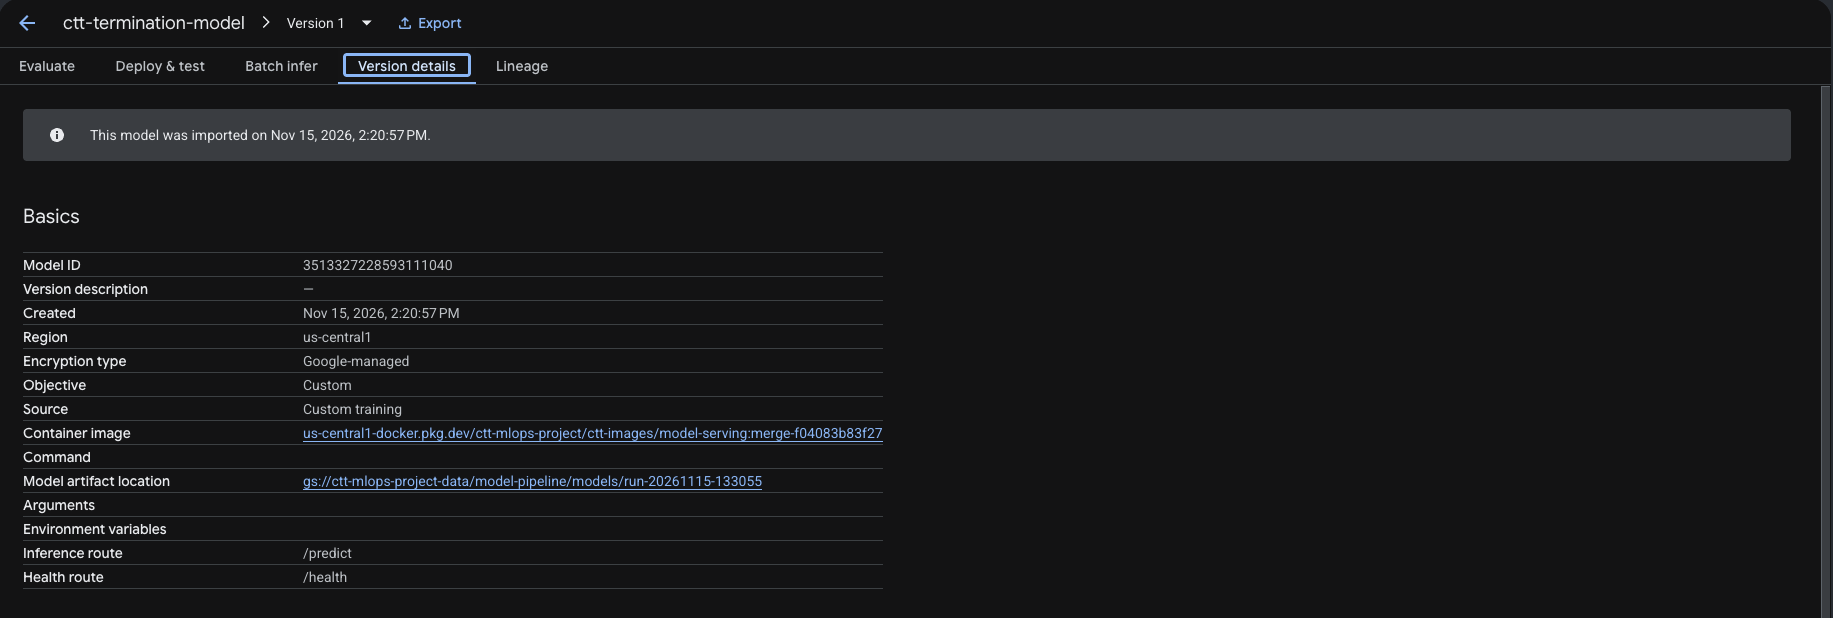
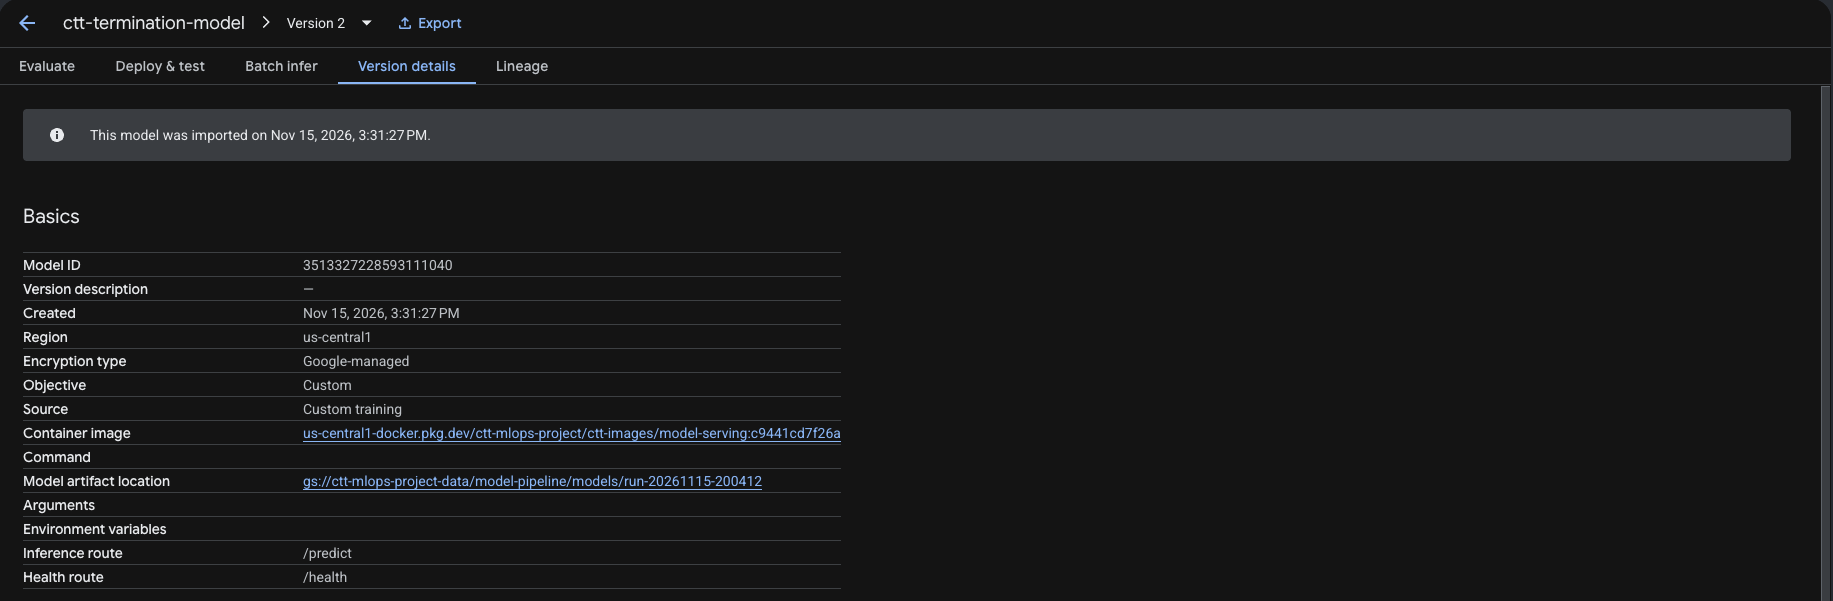
Model pipeline README: CI run on Vertex AI finished (10/10 steps), version 2 promoted to champion; screenshots of the full graph, registry versions, version 2 and the finished CI run [skip ci]

diff --git a/Model-Pipeline/README.md b/Model-Pipeline/README.md
@@ -213,15 +213,18 @@ python Model-Pipeline/vertex/submit.py --snapshot 20261115 \
   --mlflow-uri https://ctt-mlflow-xlnvxclr5a-uc.a.run.app
 ```
 
-#### What we ran (run `run-20261115-133055`, 2026-11-15)
+#### What we ran (2026-11-15)
 
-`load_data`, `train`, `validate` and `bias` ran as Vertex AI Pipelines
-steps. The `select` step then waited over 20 minutes for Vertex AI to
-provision a machine of its type, so the pipeline was cancelled and the
-remaining stages (`select` to `register`) ran in one Vertex AI custom job on
-the same work folder, without training again. The result matched the local
-run, and `register` made the model version 1 of `ctt-termination-model`,
-promoted to `champion`.
+Two runs on data version `20261115`, both on the shared MLflow server:
+
+| Run | Started by | How it ran | Result |
+|---|---|---|---|
+| `run-20261115-133055` | `submit.py` by hand | `load_data` to `bias` as pipeline steps; `select` then waited over 20 minutes for a machine, so the pipeline was cancelled and `select` to `register` ran in one custom job on the same work folder (no retraining) | version 1 of `ctt-termination-model`, promoted to `champion` |
+| `run-20261115-200412` | GitHub Actions (push to the repo) | all ten steps as pipeline steps, 31 minutes | version 2; the champion (version 1) was rescored on the same 3,362 test trials, the tie is "not worse", so version 2 became `champion` |
+
+Both runs picked `xgboost_text` and gave the same test metrics (PR-AUC
+0.467, ROC-AUC 0.784, precision 0.327, recall 0.754, largest bias gap
+0.174), so the pipeline reproduces its result from the same data version.
 
 #### Proof that every component ran
 
@@ -231,27 +234,27 @@ promoted to `champion`.
 <td width="50%" valign="top"><b>2. Cloud Build</b>: the pipeline and serving images built<br><img src="docs/screenshots/02_cloud_build_images.png" alt="Cloud Build"><br><br><b>3. Artifact Registry</b>: <code>model-pipeline</code> and <code>model-serving</code> in <code>ctt-images</code><br><img src="docs/screenshots/03_artifact_registry_images.png" alt="Artifact Registry"></td>
 </tr>
 <tr>
-<td colspan="2" valign="top"><b>4. Vertex AI Pipelines</b>: the ten-step graph; <code>load_data</code> to <code>bias</code> succeeded here, run as <code>pipeline-sa</code> on data version <code>20261115</code> with the shared MLflow server<br><img src="docs/screenshots/04_vertex_pipeline_graph.png" alt="Vertex AI pipeline graph"></td>
+<td colspan="2" valign="top"><b>4. Vertex AI Pipelines</b>: run <code>run-20261115-200412</code> started by CI, 10/10 steps completed in 31 minutes, run as <code>pipeline-sa</code> on data version <code>20261115</code> with the shared MLflow server<br><img src="docs/screenshots/04_vertex_pipeline_graph.png" alt="Vertex AI pipeline graph"></td>
 </tr>
 <tr>
-<td colspan="2" valign="top"><b>5. Vertex AI custom job</b>: <code>select</code> to <code>register</code> on one machine, same image and work folder, finished in 9 minutes<br><img src="docs/screenshots/05_vertex_finish_job.png" alt="Vertex AI custom job"></td>
+<td colspan="2" valign="top"><b>5. Vertex AI custom job</b> (first run): <code>select</code> to <code>register</code> on one machine, same image and work folder, finished in 9 minutes<br><img src="docs/screenshots/05_vertex_finish_job.png" alt="Vertex AI custom job"></td>
 </tr>
 <tr>
 <td width="50%" valign="top"><b>6. Shared MLflow server</b>: the cloud run and one child run per tuning trial<br><img src="docs/screenshots/06_mlflow_cloud_runs_and_trials.png" alt="Cloud MLflow runs and trials"></td>
 <td width="50%" valign="top"><b>7. Shared MLflow server</b>: candidates compared; artifacts stored in Cloud Storage<br><img src="docs/screenshots/07_mlflow_cloud_model_comparison.png" alt="Cloud MLflow model comparison"></td>
 </tr>
 <tr>
-<td colspan="2" valign="top"><b>8. Vertex AI Model Registry</b>: <code>ctt-termination-model</code> version 1 (<code>xgboost_text</code>, test PR-AUC 0.467)<br><img src="docs/screenshots/08_model_registry.png" alt="Model Registry"></td>
+<td colspan="2" valign="top"><b>8. Vertex AI Model Registry</b>: <code>ctt-termination-model</code> with version 1 (first run) and version 2 (CI run, now the default); the labels record <code>promoted=true</code>, <code>champion_version=1</code> (the champion it was compared with) and <code>champion_pr_auc_x1000=467</code><br><img src="docs/screenshots/08_model_registry.png" alt="Model Registry"></td>
 </tr>
 <tr>
-<td colspan="2" valign="top"><b>9. Version 1</b>: our serving container, the model files in Cloud Storage, <code>/predict</code> and <code>/health</code><br><img src="docs/screenshots/09_model_registry_version_details.png" alt="Model version details"></td>
+<td colspan="2" valign="top"><b>9. Version 2</b>: our serving container (image tag = commit <code>c9441cd7f26a</code>), the model files in Cloud Storage, <code>/predict</code> and <code>/health</code><br><img src="docs/screenshots/09_model_registry_version_details.png" alt="Model version details"></td>
 </tr>
 <tr>
-<td width="50%" valign="top"><b>10. Alert email</b>: sent by the <code>register</code> stage when version 1 became champion<br><img src="docs/screenshots/10_alert_email_champion.png" alt="Alert email"></td>
-<td width="50%" valign="top">The registry entry carries the aliases <code>default</code>, <code>challenger</code> and <code>champion</code> and the labels <code>candidate=xgboost_text</code>, <code>data_snapshot=20261115</code>, <code>test_pr_auc_x1000=467</code>, <code>promoted=true</code>; the decision is in <code>reports/registry.json</code> of the run.</td>
+<td width="50%" valign="top"><b>10. Alert email</b>: sent by the <code>register</code> stage when a version becomes champion<br><img src="docs/screenshots/10_alert_email_champion.png" alt="Alert email"></td>
+<td width="50%" valign="top">Version 2 now carries the aliases <code>default</code>, <code>challenger</code> and <code>champion</code>. The decision is in <code>reports/registry.json</code> of the run: <i>"test PR-AUC 0.4668 >= champion 0.4668"</i>, compared on snapshot <code>20261115</code>, 3,362 test trials. To go back: <code>python -m model_pipeline.registry rollback --version 1</code>.</td>
 </tr>
 <tr>
-<td colspan="2" valign="top"><b>11. CI/CD</b>: the push to <code>model-pipeline</code> started the workflow by itself; lint and tests passed, Cloud Build built the images and the pipeline started on Vertex AI<br><img src="docs/screenshots/11_github_actions_ci.png" alt="GitHub Actions run"></td>
+<td colspan="2" valign="top"><b>11. CI/CD</b>: the push started the workflow by itself; lint and tests passed (1 min 22 s), then Cloud Build built the images and the pipeline ran on Vertex AI to the end (35 min 45 s); status Success<br><img src="docs/screenshots/11_github_actions_ci.png" alt="GitHub Actions run"></td>
 </tr>
 </table>
 
@@ -428,7 +431,7 @@ where it is shown. "Cloud n" and "Local n" are the numbered screenshots in
 | 7.1 CI/CD trains on a push | `.github/workflows/model-pipeline.yml` | Cloud 11 |
 | 7.2 Automated validation against a threshold | validate and test gates (PR-AUC ≥ 0.30, ROC-AUC ≥ 0.60) | Cloud 4 and 11 |
 | 7.3 Automated bias detection, alert or block | bias stage in the pipeline (alert 0.10, block 0.25) | Cloud 4; [Bias detection](#how-bias-is-checked) |
-| 7.4 Registry push after validation and bias | `register` stage | Cloud 8 and 9 |
+| 7.4 Registry push after validation and bias | `register` stage | Cloud 4, 8 and 9 |
 | 7.5 Notifications | `notify.py` (email), CI failure email | Cloud 10; [SETUP 3](docs/SETUP.md#3-email-alerts) |
 | 7.6 Rollback if the new model is worse | `registry.py` (champion rescored on the same test set; `rollback` command) | Cloud 10; [Registry and rollback](#model-registry-serving-and-rollback) |
 | 8.1 Docker | `Dockerfile`, `serving/Dockerfile`, `cloudbuild.yaml` | Cloud 2 and 3 |
